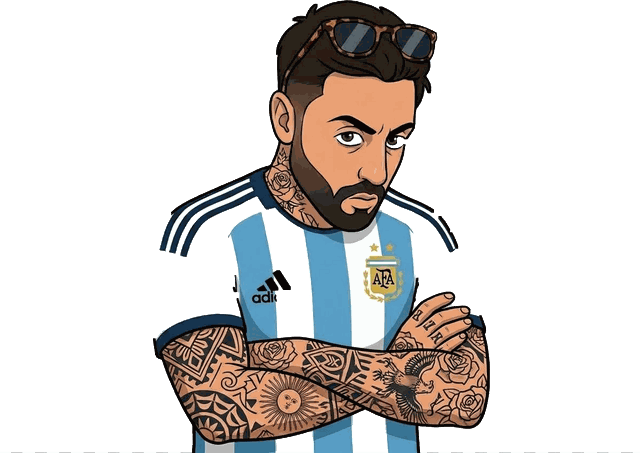
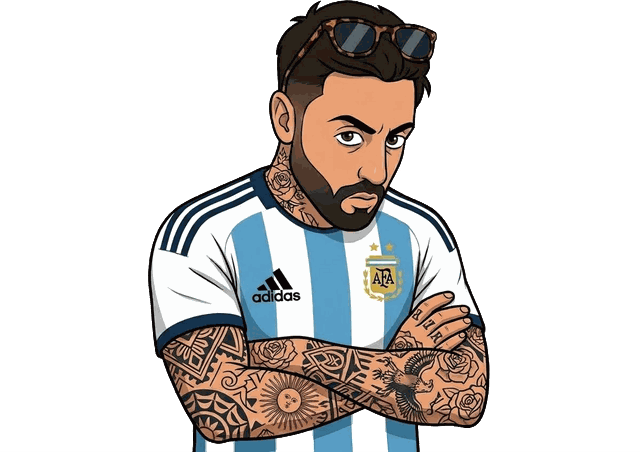
v236: Hintergrund-Bug (Kevin Herrera) und Positionierung bei 5 Karten behoben
Root-Cause gefunden und in der Freistell-Pipeline gefixt (betrifft nicht
nur Kevin Herrera, war latent in mehreren Bildern):
- cutout_checkerboard hat die Schachbrett-Flaechen mit 3 Iterationen
  binary_closing vor der Hintergrund-Erkennung geglaettet. Bei duennen
  dunklen Details auf hellem Grund (z.B. die Kanji-Schrift "Nihon Katsu"
  auf Naderu Mukais Stirnband) hat das closing den duennen Text einfach
  zugeschuettet und als Hintergrund mitgeloescht - nur ein Bruchstueck
  blieb uebrig, was wie zufaellige schwarze Flecken aussah. 1 statt 3
  Iterationen reicht fuer echte JPEG-Rauschluecken im Schachbrett, loescht
  aber keine Schrift/feinen Details mehr. Kanji-Text jetzt vollstaendig
  erhalten, mit allen 15 bestehenden Bildern gegengetestet (keine
  Regression bei Trikots, Augen, Logos/Wappen).
- Kevin Herreras Bild war komplett vom alten Rand-Erkennungs-Bug betroffen
  (siehe v235-Fix) - einmal mit der reparierten Pipeline neu freigestellt,
  Hintergrund jetzt vollstaendig entfernt statt Schachbrett-Rest.

Positionierung neu vermessen statt geschaetzt: mit echten Bounding-Box-
Messungen (Playwright-Rendering der echten Karten-CSS) statt Blickschaetzung.
- Naderu Mukai: sein Bild ist nach dem saubereren Zuschnitt jetzt breiter
  als die Karte selbst (Querformat Arme verschraenkt) und wurde dadurch am
  Ellbogen abgeschnitten. Hoehe von 64% auf 56% reduziert (PORTRAET_GROESSE)
  statt nur verschoben, damit das ganze Bild in die Karte passt, Kopf bleibt
[…]

diff --git a/spiele/fussball-auktion/design.js b/spiele/fussball-auktion/design.js
@@ -156,26 +156,26 @@ export function nationDesign(nation) {
 // Alle Karten, die hier NICHT eingetragen sind, bekommen automatisch die
 // gezeichnete Platzhalter-Silhouette (siehe kartenPortraitHtml in spiel.js).
 export const PORTRAET_BILDER = {
-  "it-1": "bilder/fussball-auktion/spieler-it-1.png?v=235",
-  "it-2": "bilder/fussball-auktion/spieler-it-2.png?v=235",
-  "it-3": "bilder/fussball-auktion/spieler-it-3.png?v=235",
-  "it-4": "bilder/fussball-auktion/spieler-it-4.png?v=235",
-  "it-5": "bilder/fussball-auktion/spieler-it-5.png?v=235",
-  "jp-1": "bilder/fussball-auktion/spieler-jp-1.png?v=235",
-  "jp-2": "bilder/fussball-auktion/spieler-jp-2.png?v=235",
-  "jp-3": "bilder/fussball-auktion/spieler-jp-3.png?v=235",
-  "jp-4": "bilder/fussball-auktion/spieler-jp-4.png?v=235",
-  "jp-5": "bilder/fussball-auktion/spieler-jp-5.png?v=235",
-  "ar-1": "bilder/fussball-auktion/spieler-ar-1.png?v=235",
-  "ar-2": "bilder/fussball-auktion/spieler-ar-2.png?v=235",
-  "ar-3": "bilder/fussball-auktion/spieler-ar-3.png?v=235",
-  "ar-4": "bilder/fussball-auktion/spieler-ar-4.png?v=235",
-  "ar-5": "bilder/fussball-auktion/spieler-ar-5.png?v=235",
-  "fr-1": "bilder/fussball-auktion/spieler-fr-1.png?v=235",
-  "fr-2": "bilder/fussball-auktion/spieler-fr-2.png?v=235",
-  "fr-3": "bilder/fussball-auktion/spieler-fr-3.png?v=235",
-  "fr-4": "bilder/fussball-auktion/spieler-fr-4.png?v=235",
-  "fr-5": "bilder/fussball-auktion/spieler-fr-5.png?v=235"
+  "it-1": "bilder/fussball-auktion/spieler-it-1.png?v=236",
+  "it-2": "bilder/fussball-auktion/spieler-it-2.png?v=236",
+  "it-3": "bilder/fussball-auktion/spieler-it-3.png?v=236",
+  "it-4": "bilder/fussball-auktion/spieler-it-4.png?v=236",
+  "it-5": "bilder/fussball-auktion/spieler-it-5.png?v=236",
+  "jp-1": "bilder/fussball-auktion/spieler-jp-1.png?v=236",
+  "jp-2": "bilder/fussball-auktion/spieler-jp-2.png?v=236",
+  "jp-3": "bilder/fussball-auktion/spieler-jp-3.png?v=236",
+  "jp-4": "bilder/fussball-auktion/spieler-jp-4.png?v=236",
+  "jp-5": "bilder/fussball-auktion/spieler-jp-5.png?v=236",
+  "ar-1": "bilder/fussball-auktion/spieler-ar-1.png?v=236",
+  "ar-2": "bilder/fussball-auktion/spieler-ar-2.png?v=236",
+  "ar-3": "bilder/fussball-auktion/spieler-ar-3.png?v=236",
+  "ar-4": "bilder/fussball-auktion/spieler-ar-4.png?v=236",
+  "ar-5": "bilder/fussball-auktion/spieler-ar-5.png?v=236",
+  "fr-1": "bilder/fussball-auktion/spieler-fr-1.png?v=236",
+  "fr-2": "bilder/fussball-auktion/spieler-fr-2.png?v=236",
+  "fr-3": "bilder/fussball-auktion/spieler-fr-3.png?v=236",
+  "fr-4": "bilder/fussball-auktion/spieler-fr-4.png?v=236",
+  "fr-5": "bilder/fussball-auktion/spieler-fr-5.png?v=236"
 };
 
 // Manche Porträts sind (je nach Bildausschnitt) von Natur aus breiter als
@@ -185,9 +185,9 @@ export const PORTRAET_BILDER = {
 // Versatz nach links angeben, in Prozentpunkten der Kartenbreite.
 export const PORTRAET_VERSATZ = {
   "it-2": 10,
-  "it-3": 9,
-  "jp-2": -5,
-  "jp-3": 14,
+  "it-3": 19,
+  "it-4": 9,
+  "jp-3": 23,
   "jp-4": 10,
   "jp-5": 14,
   "ar-1": -5,
@@ -195,11 +195,16 @@ export const PORTRAET_VERSATZ = {
   "fr-3": 10
 };
 
-// Manche Porträt-Ausschnitte sind von Natur aus deutlich schmaler/hochkanter
-// als die Standardfotos (Seitenverhältnis Breite:Höhe ~0.56 statt ~1.05),
-// z.B. wenn das Originalfoto eng um die Person zugeschnitten ist. Bei fixer
-// Höhe (siehe .fa-karte-portrait in stil.css) wirken diese Porträts dadurch
-// automatisch viel schmaler/kleiner. Pro Karten-ID lässt sich hier die Höhe
-// (in Prozentpunkten relativ zur Standardhöhe aus stil.css) sowie optional
-// der Bottom-Versatz (in Prozentpunkten der Kartenhöhe) anpassen.
-export const PORTRAET_GROESSE = {};
+// Porträts mit einem sehr BREITEN Bildausschnitt (Seitenverhältnis > 1.2,
+// z.B. Oberkörper mit verschränkten Armen) werden bei fixer Standardhöhe
+// (siehe .fa-karte-portrait in stil.css) breiter als die Karte selbst und
+// werden dadurch links und/oder rechts abgeschnitten (z.B. Ellbogen). Pro
+// Karten-ID lässt sich hier die Höhe etwas REDUZIEREN (in Prozentpunkten
+// relativ zur Standardhöhe aus stil.css), damit das ganze Bild in die Karte
+// passt, plus ein passender Bottom-Versatz, damit der Kopf trotzdem auf
+// Höhe des Flaggen-Badges bleibt.
+export const PORTRAET_GROESSE = {
+  "jp-2": { hoehe: 56, unten: 21 },
+  "ar-3": { hoehe: 54, unten: 23 },
+  "ar-5": { hoehe: 53, unten: 24 }
+};

diff --git a/sw.js b/sw.js
@@ -4,7 +4,7 @@
 // Nur dann wirft der Browser den alten Zwischenspeicher weg und alle Spieler
 // bekommen zuverlässig die neue Version. Das ist der einzige Handgriff, den man
 // nach dem Bearbeiten von Dateien nicht vergessen darf.
-const CACHE_NAME = "trollhouse-v235";
+const CACHE_NAME = "trollhouse-v236";
 
 const DATEIEN = [
   "./",
@@ -47,26 +47,26 @@ const DATEIEN = [
   "spiele/fussball-auktion/logik.js",
   "spiele/fussball-auktion/design.js",
   "spiele/fussball-auktion/karten.json",
-  "bilder/fussball-auktion/spieler-it-1.png?v=235",
-  "bilder/fussball-auktion/spieler-it-2.png?v=235",
-  "bilder/fussball-auktion/spieler-it-3.png?v=235",
-  "bilder/fussball-auktion/spieler-it-4.png?v=235",
-  "bilder/fussball-auktion/spieler-it-5.png?v=235",
-  "bilder/fussball-auktion/spieler-jp-1.png?v=235",
-  "bilder/fussball-auktion/spieler-jp-2.png?v=235",
-  "bilder/fussball-auktion/spieler-jp-3.png?v=235",
-  "bilder/fussball-auktion/spieler-jp-4.png?v=235",
-  "bilder/fussball-auktion/spieler-jp-5.png?v=235",
-  "bilder/fussball-auktion/spieler-ar-1.png?v=235",
-  "bilder/fussball-auktion/spieler-ar-2.png?v=235",
-  "bilder/fussball-auktion/spieler-ar-3.png?v=235",
-  "bilder/fussball-auktion/spieler-ar-4.png?v=235",
-  "bilder/fussball-auktion/spieler-ar-5.png?v=235",
-  "bilder/fussball-auktion/spieler-fr-1.png?v=235",
-  "bilder/fussball-auktion/spieler-fr-2.png?v=235",
-  "bilder/fussball-auktion/spieler-fr-3.png?v=235",
-  "bilder/fussball-auktion/spieler-fr-4.png?v=235",
-  "bilder/fussball-auktion/spieler-fr-5.png?v=235",
+  "bilder/fussball-auktion/spieler-it-1.png?v=236",
+  "bilder/fussball-auktion/spieler-it-2.png?v=236",
+  "bilder/fussball-auktion/spieler-it-3.png?v=236",
+  "bilder/fussball-auktion/spieler-it-4.png?v=236",
+  "bilder/fussball-auktion/spieler-it-5.png?v=236",
+  "bilder/fussball-auktion/spieler-jp-1.png?v=236",
+  "bilder/fussball-auktion/spieler-jp-2.png?v=236",
+  "bilder/fussball-auktion/spieler-jp-3.png?v=236",
+  "bilder/fussball-auktion/spieler-jp-4.png?v=236",
+  "bilder/fussball-auktion/spieler-jp-5.png?v=236",
+  "bilder/fussball-auktion/spieler-ar-1.png?v=236",
+  "bilder/fussball-auktion/spieler-ar-2.png?v=236",
+  "bilder/fussball-auktion/spieler-ar-3.png?v=236",
+  "bilder/fussball-auktion/spieler-ar-4.png?v=236",
+  "bilder/fussball-auktion/spieler-ar-5.png?v=236",
+  "bilder/fussball-auktion/spieler-fr-1.png?v=236",
+  "bilder/fussball-auktion/spieler-fr-2.png?v=236",
+  "bilder/fussball-auktion/spieler-fr-3.png?v=236",
+  "bilder/fussball-auktion/spieler-fr-4.png?v=236",
+  "bilder/fussball-auktion/spieler-fr-5.png?v=236",
   "spiele/doppelblick/spiel.js",
   "spiele/blitzquiz/spiel.js",
   "spiele/blitzquiz/fragen.json",

diff --git a/index.html b/index.html
@@ -18,7 +18,7 @@
   <link rel="preconnect" href="https://fonts.googleapis.com">
   <link rel="preconnect" href="https://fonts.gstatic.com" crossorigin>
   <link href="https://fonts.googleapis.com/css2?family=Barlow+Condensed:ital,wght@0,800;1,800&family=Bungee&display=swap" rel="stylesheet">
-  <link rel="stylesheet" href="stil.css?v=235">
+  <link rel="stylesheet" href="stil.css?v=236">
 </head>
 <body>
 
@@ -39,7 +39,7 @@
   <div id="start-screen" class="bildschirm-karte">
     <div class="start-hero">
       <div class="start-icon">
-        <img src="bilder/logo-fuchs-transparent.png?v=235" width="102" height="102" alt="" class="app-icon">
+        <img src="bilder/logo-fuchs-transparent.png?v=236" width="102" height="102" alt="" class="app-icon">
       </div>
       <h1>Trollhouse</h1>
       <p class="start-tagline">Ein Raum, ein Abend, viele Spiele</p>
@@ -192,11 +192,11 @@
   <div id="lobby-screen" class="bildschirm-karte" hidden>
     <div class="lobby-kopf">
       <div class="lobby-marke">
-        <span class="lobby-logo-badge"><img src="bilder/logo-fuchs-transparent.png?v=235" width="36" height="36" alt="" class="lobby-app-icon"></span>
+        <span class="lobby-logo-badge"><img src="bilder/logo-fuchs-transparent.png?v=236" width="36" height="36" alt="" class="lobby-app-icon"></span>
         <h1>Trollhouse</h1>
       </div>
       <button id="btn-lobby-verlassen" class="lobby-verlassen" type="button">
-        <img src="bilder/icon-raum-verlassen.svg?v=235" width="32" height="32" alt="">
+        <img src="bilder/icon-raum-verlassen.svg?v=236" width="32" height="32" alt="">
         <span class="nur-screenreader">Raum verlassen</span>
       </button>
     </div>
@@ -242,6 +242,6 @@
   <!-- ---------- Hierhin rendert das jeweils laufende Spiel ---------- -->
   <div id="spiel-wurzel"></div>
 
-  <script type="module" src="app.js?v=235"></script>
+  <script type="module" src="app.js?v=236"></script>
 </body>
 </html>

diff --git a/app.js b/app.js
@@ -13,9 +13,9 @@ import {
 // WICHTIG: bei jedem Versionssprung hier UND in spiele/register.js
 // (SPIEL_VERSION) mit hochzaehlen, sonst bekommen manche Geraete
 // Spiel-Fixes (spiele/<id>/spiel.js) verzoegert oder gar nicht mit.
-import { SPIELE, spielInfo } from "./spiele/register.js?v=235";
+import { SPIELE, spielInfo } from "./spiele/register.js?v=236";
 
-export const APP_VERSION = "v235";
+export const APP_VERSION = "v236";
 const appVersion = document.getElementById("app-version");
 appVersion.textContent = "Version " + APP_VERSION;
 

diff --git a/spiele/register.js b/spiele/register.js
@@ -18,7 +18,7 @@
 // in der Olympiade trotz Fix in v201/v202 teils noch bestehen lassen.
 // WICHTIG: bei jedem Versionssprung hier UND in app.js (Import von
 // register.js) mit hochzaehlen.
-const SPIEL_VERSION = "235";
+const SPIEL_VERSION = "236";
 
 export const SPIELE = [
   {
